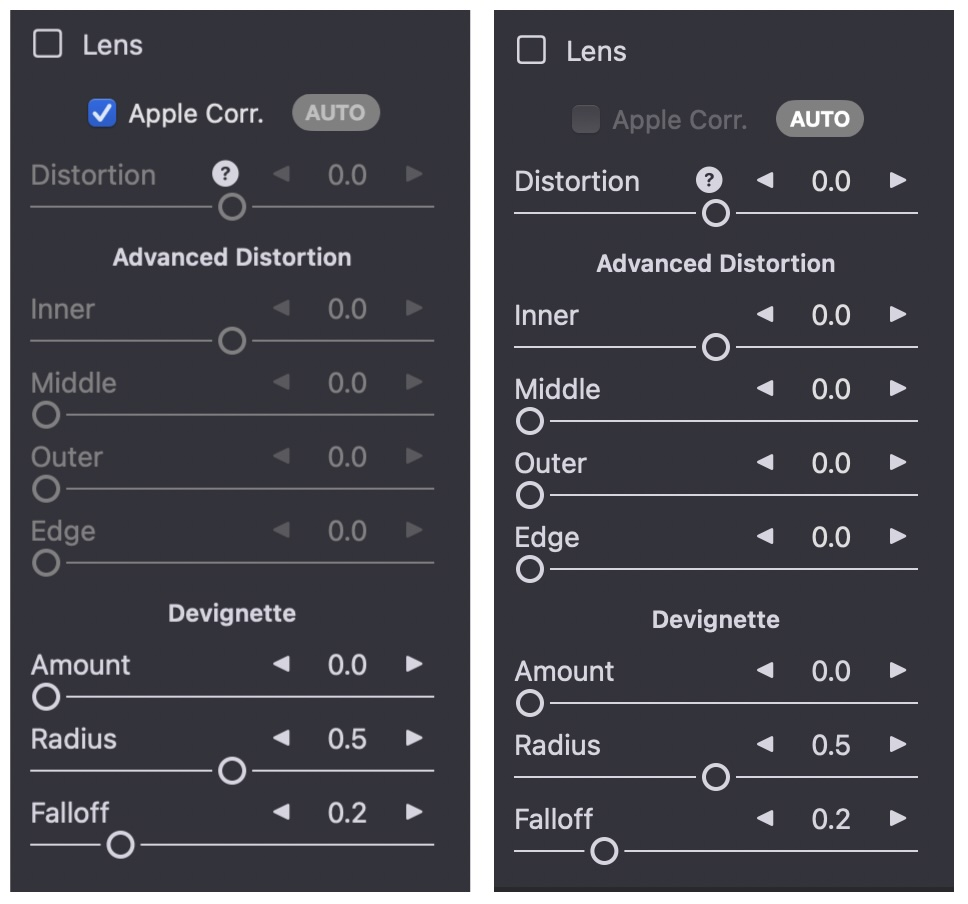
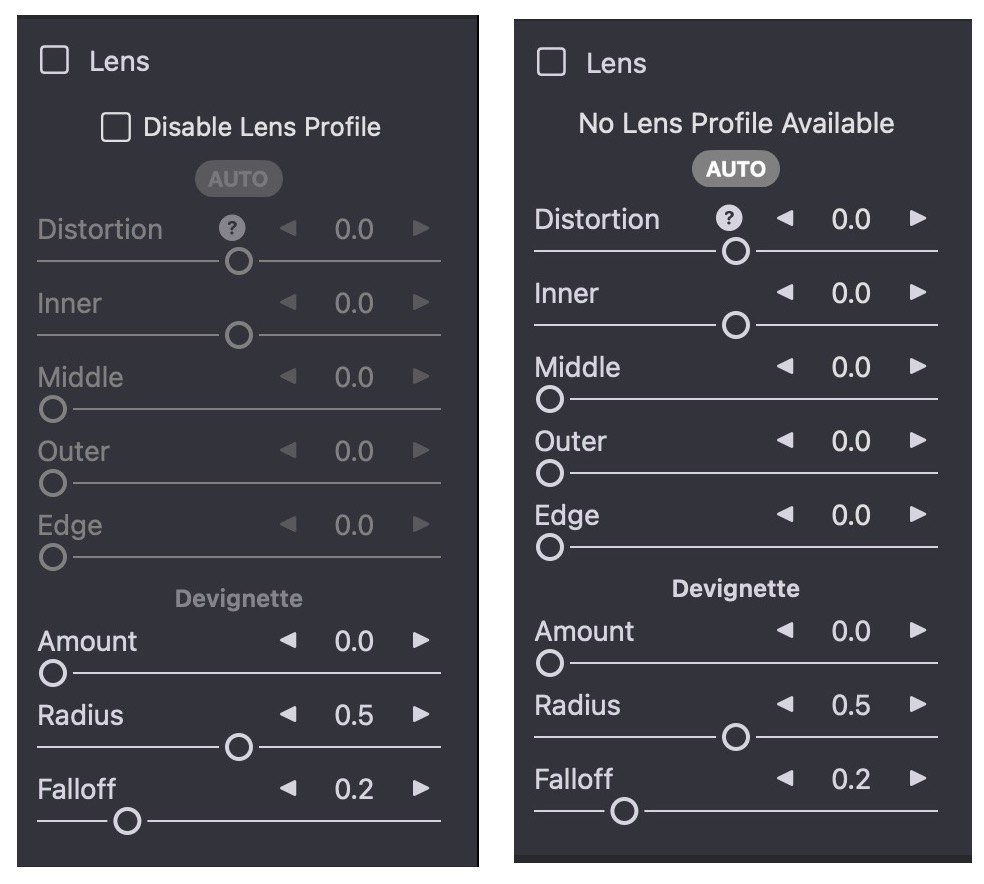
August 2025 - cameras + Nitro user manual for 2025.6

diff --git a/nitro/user-manual/index.html b/nitro/user-manual/index.html
@@ -2093,15 +2093,17 @@ You can reduce this effect with the purple (or green) intensity slider. The rang
 ### <a name= Lens-Correction></a>Lens Correction
 [Back to Editing](#The-Editing-Panel)
 
-Nitro includes two types of lens correction to handle artifacts in lenses such as distortion and shading (also called vignetting). There are two types of lens correction in the app: automatic and manual. The automatic lens correction is provided by Apple's RAW decoder, but is only available for some camera and lens combinations. Apple's system works by reading lens metadata written into the image file. In general, they can correct newer cameras and lenses, rather than older ones. When Apple's decoder can correct a lens, Nitro defaults to turning that correction on. You can add further devignetting to Apple's correction, though this is not usually necessary. When the decoder cannot correct a lens automatically, the full suite of manual tools is enabled.
+Nitro includes two types of lens correction to handle artifacts in lenses such as distortion and shading (also called vignetting). There are two types of lens correction in the app: automatic and manual. The automatic lens correction is provided by Apple's RAW decoder, but is only available for some camera and lens combinations. Apple's system works by reading lens metadata written into the image file (called a Lens Profile). In general, they can correct newer cameras and lenses, rather than older ones. When Apple's decoder can correct a lens, Nitro defaults to using that correction. You can add further devignetting to Apple's correction, though this is not usually necessary. When the decoder cannot correct a lens automatically, the full suite of manual tools is enabled. If you want to turn off Apple's correction, then press the "Disable Lens Profile" button, which will enable the distortion sliders. They will also be enabled when an image does not have a lens profile. In that case, Nitro will display "No Lens Profile Available".
 
-<p align=left><img src="images/lens.jpg" height="452"/></p>
+<p align=left><img src="images/lens.jpg" height="442"/></p>
 
 The manual correction is better described as "semi-automatic." The best way to correct a lens is to take a number of pictures of a grid with that camera and lens combination at a range of aperture values and focal lengths. Then it is straightforward to correct the distortion and shading. The lens correction is semi-automatic because Nitro will learn how to correct the lens automatically using your manual corrections. In short order, Nitro can correct the lens on its own. The AUTO button at the top can be used to correct the lens automatically once there is sufficient information in Nitro's lens correction database. There are also preferences in the app that controls whether this semi-automatic correction engages without your having to click the Auto Button. That is described in more detail in the Settings section.
 
 To learn more about how to correct a lens with Nitro and to build up its correction database, please watch this video (it covers the RAW Power app, but the technique is identical):
 
 [Lens Correction Video](https://www.youtube.com/watch?v=dRMYv6AbXPk)
+
+Lens Correction support for Compressed Fujifilm and Nikon HE/HE* images is a relatively recent addition to Nitro. If you edited images in previous releases using manual lens correction, and they now can get Apple's lens correction, you will see a Update Lens Correction button in the interface. Follow the steps listed. You can also select multiple images and use the "Update Lens Correction" batch command.
 
 ### <a name= Channel-Mixer></a>Channel Mixer
 [Back to Editing](#The-Editing-Panel)
@@ -2699,7 +2701,7 @@ To alleviate this increasingly severe problem, both RAW Power and Nitro include 
 * GoPro RAW files
 * High resolution modes for Olympus and other camera companies
 
-One missing aspect to this support, however, is lens correction. Images that are processed through Enhanced RAW Support do not receive automatic lens correction through Apple’s decoder. Instead, you will need to use the manual Lens Correction Adjustment, which is [described here](#Lens-Correction). The best part about Enhanced RAW Support is that it is transparent to you. Images simply work.
+Some images that are processed through Enhanced RAW Support do not receive automatic lens correction, but many do. Fujifilm Compressed RAW, Nikon HE/HE* and others get lens correction. If your image does not, you will need to use the manual Lens Correction Adjustment, which is [described here](#Lens-Correction). The best part about Enhanced RAW Support is that it is transparent to you. Images simply work.
 
 RAW images that are not supported by Apple will appear blank in Photos. However, once you edit them in Nitro, then Nitro will create a full-size JPEG (or HEIF) and store that in the Photo Library. After that, you can view the image in Photos. However, if you revert to original (either in Nitro or Photos), the image will be blank again in Photos.
  
@@ -3406,11 +3408,12 @@ aberration near edges / high contrast areas. If you have red or cyan aberration,
 <p>You can reduce this effect with the purple (or green) intensity slider. The range of purple or green hue that is affected can be controlled with the range sliders. Take care with the range slider as it can affect other parts of the image with nearby hues.</p>
 <h3><a name= Lens-Correction></a>Lens Correction</h3>
 <p><a href="#The-Editing-Panel">Back to Editing</a></p>
-<p>Nitro includes two types of lens correction to handle artifacts in lenses such as distortion and shading (also called vignetting). There are two types of lens correction in the app: automatic and manual. The automatic lens correction is provided by Apple's RAW decoder, but is only available for some camera and lens combinations. Apple's system works by reading lens metadata written into the image file. In general, they can correct newer cameras and lenses, rather than older ones. When Apple's decoder can correct a lens, Nitro defaults to turning that correction on. You can add further devignetting to Apple's correction, though this is not usually necessary. When the decoder cannot correct a lens automatically, the full suite of manual tools is enabled.</p>
-<p align=left><img src="images/lens.jpg" height="452"/></p>
+<p>Nitro includes two types of lens correction to handle artifacts in lenses such as distortion and shading (also called vignetting). There are two types of lens correction in the app: automatic and manual. The automatic lens correction is provided by Apple's RAW decoder, but is only available for some camera and lens combinations. Apple's system works by reading lens metadata written into the image file (called a Lens Profile). In general, they can correct newer cameras and lenses, rather than older ones. When Apple's decoder can correct a lens, Nitro defaults to using that correction. You can add further devignetting to Apple's correction, though this is not usually necessary. When the decoder cannot correct a lens automatically, the full suite of manual tools is enabled. If you want to turn off Apple's correction, then press the &quot;Disable Lens Profile&quot; button, which will enable the distortion sliders. They will also be enabled when an image does not have a lens profile. In that case, Nitro will display &quot;No Lens Profile Available&quot;.</p>
+<p align=left><img src="images/lens.jpg" height="442"/></p>
 <p>The manual correction is better described as &quot;semi-automatic.&quot; The best way to correct a lens is to take a number of pictures of a grid with that camera and lens combination at a range of aperture values and focal lengths. Then it is straightforward to correct the distortion and shading. The lens correction is semi-automatic because Nitro will learn how to correct the lens automatically using your manual corrections. In short order, Nitro can correct the lens on its own. The AUTO button at the top can be used to correct the lens automatically once there is sufficient information in Nitro's lens correction database. There are also preferences in the app that controls whether this semi-automatic correction engages without your having to click the Auto Button. That is described in more detail in the Settings section.</p>
 <p>To learn more about how to correct a lens with Nitro and to build up its correction database, please watch this video (it covers the RAW Power app, but the technique is identical):</p>
 <p><a href="https://www.youtube.com/watch?v=dRMYv6AbXPk">Lens Correction Video</a></p>
+<p>Lens Correction support for Compressed Fujifilm and Nikon HE/HE* images is a relatively recent addition to Nitro. If you edited images in previous releases using manual lens correction, and they now can get Apple's lens correction, you will see a Update Lens Correction button in the interface. Follow the steps listed. You can also select multiple images and use the &quot;Update Lens Correction&quot; batch command.</p>
 <h3><a name= Channel-Mixer></a>Channel Mixer</h3>
 <p><a href="#The-Editing-Panel">Back to Editing</a></p>
 <p>A channel mixer is a very powerful tool for tinting images or completely changing the look of your image. You can even swap channels (exchanging blue for red, for example).</p>
@@ -3835,7 +3838,7 @@ There are preferences to control this behavior, which are discussed in more deta
 <li>GoPro RAW files</li>
 <li>High resolution modes for Olympus and other camera companies</li>
 </ul>
-<p>One missing aspect to this support, however, is lens correction. Images that are processed through Enhanced RAW Support do not receive automatic lens correction through Apple’s decoder. Instead, you will need to use the manual Lens Correction Adjustment, which is <a href="#Lens-Correction">described here</a>. The best part about Enhanced RAW Support is that it is transparent to you. Images simply work.</p>
+<p>Some images that are processed through Enhanced RAW Support do not receive automatic lens correction, but many do. Fujifilm Compressed RAW, Nikon HE/HE* and others get lens correction. If your image does not, you will need to use the manual Lens Correction Adjustment, which is <a href="#Lens-Correction">described here</a>. The best part about Enhanced RAW Support is that it is transparent to you. Images simply work.</p>
 <p>RAW images that are not supported by Apple will appear blank in Photos. However, once you edit them in Nitro, then Nitro will create a full-size JPEG (or HEIF) and store that in the Photo Library. After that, you can view the image in Photos. However, if you revert to original (either in Nitro or Photos), the image will be blank again in Photos.</p>
 <p>When using the Nitro Photo Extension, you can still benefit from Enhanced RAW Support, though the image will look blank in Photos. However, when you open it in the Photo Extension, the image will be decoded and will be editable. Like the Nitro standalone app, when saving the edits, the edited image will be visible in Photos.</p>
 <p>The camera support list is maintained on the website, and it varies across operating system versions. The latest version can be <a href="https://www.gentlemencoders.com/extended-raw/index.html">found here</a>.</p>

diff --git a/extended-raw/iOS16-Ventura/index.html b/extended-raw/iOS16-Ventura/index.html
@@ -45,7 +45,7 @@ tr:nth-child(even) {background-color: #f2f2f2;}
         <h2>RAW formats supported on iOS 16, iPadOS 16, and macOS Ventura</h2>
         <h4>Support for most RAW camera formats comes directly from iOS and macOS. However, many cameras and RAW formats are not supported by Apple. To address this on iOS 14, Big Sur, and later, i have added support for many cameras, including GoPro, Fujifilm Compressed RAWs and Nikon HE/HE*. With extended RAW support, you get full access to the RAW editing features. However, there is no automatic lens correction. Use the Lens Correction adjustment to correct lens artifacts.</h4>
         <h4>Note: when using extended support, special modes like 16x9 and Sports Modes are not supported in RAW Power, but they are supported in Nitro.</h4>
-		<h4>List updated June 2, 2025</h4>
+		<h4>List updated August 20, 2025</h4>
 		<h4>If you do not see thumbnails for your images, then you can tell the app to create thumbnails for you. If you have questions, please contact <a href=mailto:support@gentlemencoders.com>support@gentlemencoders.com</a></h4>
         <div class="entry-content">
             <style>
@@ -60,7 +60,7 @@ tr:nth-child(even) {background-color: #f2f2f2;}
 
 <div style="max-width:900px;">
 <h3 class="cameraMake">DNG</h3>
-<b><i>A note about DNG - Nitro and RAW Power already support most DNG files, so if your camera natively shoots in DNG, it will probably work right away. If it does not, please let me know: <a href=mailto:support@gentlemencoders.com>support@gentlemencoders.com</a></i></b><br><br>
+<b><i>A note about DNG - Nitro and RAW Power already support most DNG files (including iPhones), so if your camera natively shoots in DNG, it will probably work right away. If it does not, please let me know: <a href=mailto:support@gentlemencoders.com>support@gentlemencoders.com</a></i></b><br><br>
 <h3 class="cameraMake">Canon</h3>
 
 <table>
@@ -272,6 +272,7 @@ tr:nth-child(even) {background-color: #f2f2f2;}
 <tr><td class="model">X-E2S</td><td class="note"></td></tr>
 <tr><td class="model">X-E3</td><td class="note">iOS 14+ / macOS 11+: Extended Support for Compressed RAW</td></tr>
 <tr><td class="model">X-E4</td><td class="note">iOS 14+ / macOS 11+: Extended Support for Compressed RAW</td></tr>
+<tr><td class="model">X-E5</td><td class="note">iOS 14+ / macOS 11+: Extended Support</td></tr>
 <tr><td class="model">X-H1</td><td class="note">iOS 14+ / macOS 11+: Extended Support for Compressed RAW</td></tr>
 <tr><td class="model">X-H2</td><td class="note">iOS 16+ / macOS 13+: Extended Support for Compressed RAW</td></tr>
 <tr><td class="model">X-H2S</td><td class="note">iOS 14+ / macOS 11+: Extended Support for Compressed RAW</td></tr>
@@ -403,6 +404,7 @@ tr:nth-child(even) {background-color: #f2f2f2;}
 <tr><td class="model">D-Lux 5</td><td class="note"></td></tr>
 <tr><td class="model">D-Lux 6</td><td class="note"></td></tr>
 <tr><td class="model">D-Lux 7</td><td class="note"></td></tr>
+<tr><td class="model">D-Lux 8</td><td class="note"></td></tr>
 <tr><td class="model">DIGILUX 2</td><td class="note"></td></tr>
 <tr><td class="model">DIGILUX 3</td><td class="note"></td></tr>
 <tr><td class="model">M</td><td class="note"></td></tr>
@@ -534,6 +536,8 @@ tr:nth-child(even) {background-color: #f2f2f2;}
 <tr><td class="model">Z 30</td><td class="note">iOS 14+ / macOS 11+: Extended Support</td></tr>
 <tr><td class="model">Z 5</td><td class="note"></td></tr>
 <tr><td class="model">Z 50</td><td class="note"></td></tr>
+<tr><td class="model">Z 5 II</td><td class="note">iOS 16+ / macOS 13+: Extended Support</td></tr>
+<tr><td class="model">Z 50 II</td><td class="note">iOS 16+ / macOS 13+: Extended Support</td></tr>
 <tr><td class="model">Z 6</td><td class="note"></td></tr>
 <tr><td class="model">Z 6II</td><td class="note"></td></tr>
 <tr><td class="model">Z 6 III</td><td class="note">iOS 16+ / macOS 13+: Extended Support</td></tr>
@@ -572,7 +576,9 @@ tr:nth-child(even) {background-color: #f2f2f2;}
 <tr><td class="model">EVOLT E-520</td><td class="note"></td></tr>
 <tr><td class="model">OM-1</td><td class="note"></td></tr>
 <tr><td class="model">OM-1 Mark II</td><td class="note">iOS 16+ / macOS 13+: Extended Support</td></tr>
-<tr><td class="model">OM-5</td><td class="note">iOS 14+ / macOS 11+: Extended Support</td></tr>
+<tr><td class="model">OM-3</td><td class="note">iOS 16+ / macOS 13+: Extended Support</td></tr>
+<tr><td class="model">OM-5</td><td class="note">iOS 16+ / macOS 13+: Extended Support</td></tr>
+<tr><td class="model">OM-5 II</td><td class="note">iOS 16+ / macOS 13+: Added Support</td></tr>
 <tr><td class="model">OM-D E-M1</td><td class="note"></td></tr>
 <tr><td class="model">OM-D E-M1 Mark II</td><td class="note"></td></tr>
 <tr><td class="model">OM-D E-M1 Mark III</td><td class="note"></td></tr>
@@ -927,6 +933,7 @@ tr:nth-child(even) {background-color: #f2f2f2;}
 <tr><td class="model">DSC-RX100 VII</td><td class="note"></td></tr>
 <tr><td class="model">DSC-RX1R</td><td class="note"></td></tr>
 <tr><td class="model">DSC-RX1R II</td><td class="note"></td></tr>
+<tr><td class="model">DSC-RX1R III</td><td class="note">iOS 14+ / macOS 11+: Added Support</td></tr>
 <tr><td class="model">RX100 V</td><td class="note"></td></tr>
 <tr><td class="model">DSC-R1</td><td class="note"></td></tr>
 <tr><td class="model">DSC-RX0</td><td class="note"></td></tr>

diff --git a/extended-raw/iOS17-Sonoma/index.html b/extended-raw/iOS17-Sonoma/index.html
@@ -45,7 +45,7 @@ tr:nth-child(even) {background-color: #f2f2f2;}
         <h2>RAW formats supported on iOS 17, iPadOS 17, and macOS Sonoma</h2>
         <h4>Support for most RAW camera formats comes directly from iOS and macOS. However, many cameras and RAW formats are not supported by Apple. To address this on iOS 14, Big Sur, and later, I have added support for many cameras, including GoPro, Fujifilm Compressed RAWs and Nikon HE/HE*. With extended RAW support, you get full access to the RAW editing features. However, there is no automatic lens correction. Use the Lens Correction adjustment to correct lens artifacts.</h4>
         <h4>Note: when using extended support, special modes like 16x9 and Sports Modes are not supported in RAW Power, but they are supported in Nitro.</h4>
-		<h4>List updated June 2, 2025</h4>
+		<h4>List updated August 20, 2025</h4>
 		<h4>If you do not see thumbnails for your images, then you can tell the app to create thumbnails for you. If you have questions, please contact <a href=mailto:support@gentlemencoders.com>support@gentlemencoders.com</a></h4>
         <div class="entry-content">
             <style>
@@ -61,7 +61,7 @@ tr:nth-child(even) {background-color: #f2f2f2;}
 
 <div style="max-width:900px;">
 <h3 class="cameraMake">DNG</h3>
-<b><i>A note about DNG - Nitro and RAW Power already support most DNG files, so if your camera natively shoots in DNG, it will probably work right away. If it does not, please let me know: <a href=mailto:support@gentlemencoders.com>support@gentlemencoders.com</a></i></b><br><br>
+<b><i>A note about DNG - Nitro and RAW Power already support most DNG files (including iPhones), so if your camera natively shoots in DNG, it will probably work right away. If it does not, please let me know: <a href=mailto:support@gentlemencoders.com>support@gentlemencoders.com</a></i></b><br><br>
 <h3 class="cameraMake">Canon</h3>
 
 <table>
@@ -274,6 +274,7 @@ tr:nth-child(even) {background-color: #f2f2f2;}
 <tr><td class="model">X-E2S</td><td class="note"></td></tr>
 <tr><td class="model">X-E3</td><td class="note">iOS 14+ / macOS 11+: Added Support for Compressed RAW</td></tr>
 <tr><td class="model">X-E4</td><td class="note">iOS 14+ / macOS 11+: Added Support for Compressed RAW</td></tr>
+<tr><td class="model">X-E5</td><td class="note">iOS 14+ / macOS 11+: Extended Support</td></tr>
 <tr><td class="model">X-H1</td><td class="note">iOS 14+ / macOS 11+: Added Support for Compressed RAW</td></tr>
 <tr><td class="model">X-H2</td><td class="note">iOS 16+ / macOS 13+: Added Support for Compressed RAW</td></tr>
 <tr><td class="model">X-H2S</td><td class="note">iOS 14+ / macOS 11+: Added Support for Compressed RAW</td></tr>
@@ -405,6 +406,7 @@ tr:nth-child(even) {background-color: #f2f2f2;}
 <tr><td class="model">D-Lux 5</td><td class="note"></td></tr>
 <tr><td class="model">D-Lux 6</td><td class="note"></td></tr>
 <tr><td class="model">D-Lux 7</td><td class="note"></td></tr>
+<tr><td class="model">D-Lux 8</td><td class="note"></td></tr>
 <tr><td class="model">DIGILUX 2</td><td class="note"></td></tr>
 <tr><td class="model">DIGILUX 3</td><td class="note"></td></tr>
 <tr><td class="model">M</td><td class="note"></td></tr>
@@ -537,6 +539,8 @@ tr:nth-child(even) {background-color: #f2f2f2;}
 <tr><td class="model">Z 30</td><td class="note">iOS 14+ / macOS 11+: Added Support</td></tr>
 <tr><td class="model">Z 5</td><td class="note"></td></tr>
 <tr><td class="model">Z 50</td><td class="note"></td></tr>
+<tr><td class="model">Z 5 II</td><td class="note">iOS 16+ / macOS 13+: Added Support for HE and HE**</td></tr>
+<tr><td class="model">Z 50 II</td><td class="note">iOS 16+ / macOS 13+: Added Support for HE and HE*</td></tr>
 <tr><td class="model">Z 6</td><td class="note"></td></tr>
 <tr><td class="model">Z 6II</td><td class="note"></td></tr>
 <tr><td class="model">Z 6 III</td><td class="note">iOS 16+ / macOS 13+: Extended Support</td></tr>
@@ -575,7 +579,9 @@ tr:nth-child(even) {background-color: #f2f2f2;}
 <tr><td class="model">EVOLT E-520</td><td class="note"></td></tr>
 <tr><td class="model">OM-1</td><td class="note"></td></tr>
 <tr><td class="model">OM-1 Mark II</td><td class="note">iOS 16+ / macOS 13+: Added Support</td></tr>
+<tr><td class="model">OM-3</td><td class="note">iOS 16+ / macOS 13+: Extended Support</td></tr>
 <tr><td class="model">OM-5</td><td class="note">iOS 14+ / macOS 11+: Added Support</td></tr>
+<tr><td class="model">OM-5 II</td><td class="note">iOS 16+ / macOS 13+: Added Support</td></tr>
 <tr><td class="model">OM-D E-M1</td><td class="note"></td></tr>
 <tr><td class="model">OM-D E-M1 Mark II</td><td class="note"></td></tr>
 <tr><td class="model">OM-D E-M1 Mark III</td><td class="note"></td></tr>
@@ -941,6 +947,7 @@ tr:nth-child(even) {background-color: #f2f2f2;}
 <tr><td class="model">DSC-RX100 VII</td><td class="note"></td></tr>
 <tr><td class="model">DSC-RX1R</td><td class="note"></td></tr>
 <tr><td class="model">DSC-RX1R II</td><td class="note"></td></tr>
+<tr><td class="model">DSC-RX1R III</td><td class="note">iOS 14+ / macOS 11+: Added Support</td></tr>
 <tr><td class="model">RX100 V</td><td class="note"></td></tr>
 <tr><td class="model">DSC-R1</td><td class="note"></td></tr>
 <tr><td class="model">DSC-RX0</td><td class="note"></td></tr>

diff --git a/extended-raw/index.html b/extended-raw/index.html
@@ -45,7 +45,7 @@ tr:nth-child(even) {background-color: #f2f2f2;}
         <h2>RAW formats supported on iOS 18, iPadOS 18, and macOS Sequoia</h2>
         <h4>Support for most RAW camera formats comes directly from iOS and macOS. However, many cameras and RAW formats are not supported by Apple. To address this on iOS 14, Big Sur, and later, I have added support for many cameras, including GoPro, Fujifilm Compressed RAWs and Nikon HE/HE*. With extended RAW support, you get full access to the RAW editing features. However, there is no automatic lens correction. Use the Lens Correction adjustment to correct lens artifacts.</h4>
         <h4>Note: when using extended support, special modes like 16x9 and Sports Modes are not supported in RAW Power, but they are supported in Nitro.</h4>
-		<h4>List updated June 11, 2025</h4>
+		<h4>List updated August 20, 2025</h4>
 		<h4>If you do not see thumbnails for your images, then you can tell the app to create thumbnails for you. If you have questions, please contact <a href=mailto:support@gentlemencoders.com>support@gentlemencoders.com</a></h4>
         <div class="entry-content">
             <style>
@@ -62,7 +62,7 @@ tr:nth-child(even) {background-color: #f2f2f2;}
 
 <div style="max-width:900px;">
 <h3 class="cameraMake">DNG</h3>
-<b><i>A note about DNG - Nitro and RAW Power already support most DNG files, so if your camera natively shoots in DNG, it will probably work right away. If it does not, please let me know: <a href=mailto:support@gentlemencoders.com>support@gentlemencoders.com</a></i></b><br><br>
+<b><i>A note about DNG - Nitro and RAW Power already support most DNG files (including iPhones), so if your camera natively shoots in DNG, it will probably work right away. If it does not, please let me know: <a href=mailto:support@gentlemencoders.com>support@gentlemencoders.com</a></i></b><br><br>
 <h3 class="cameraMake">Canon</h3>
 
 <table>
@@ -275,6 +275,7 @@ tr:nth-child(even) {background-color: #f2f2f2;}
 <tr><td class="model">X-E2S</td><td class="note"></td></tr>
 <tr><td class="model">X-E3</td><td class="note">iOS 14+ / macOS 11+: Added Support for Compressed RAW</td></tr>
 <tr><td class="model">X-E4</td><td class="note">iOS 14+ / macOS 11+: Added Support for Compressed RAW</td></tr>
+<tr><td class="model">X-E5</td><td class="note">iOS 14+ / macOS 11+: Extended Support</td></tr>
 <tr><td class="model">X-H1</td><td class="note">iOS 14+ / macOS 11+: Added Support for Compressed RAW</td></tr>
 <tr><td class="model">X-H2</td><td class="note">iOS 16+ / macOS 13+: Added Support for Compressed RAW</td></tr>
 <tr><td class="model">X-H2S</td><td class="note">iOS 14+ / macOS 11+: Added Support for Compressed RAW</td></tr>
@@ -407,6 +408,7 @@ tr:nth-child(even) {background-color: #f2f2f2;}
 <tr><td class="model">D-Lux 5</td><td class="note"></td></tr>
 <tr><td class="model">D-Lux 6</td><td class="note"></td></tr>
 <tr><td class="model">D-Lux 7</td><td class="note"></td></tr>
+<tr><td class="model">D-Lux 8</td><td class="note"></td></tr>
 <tr><td class="model">DIGILUX 2</td><td class="note"></td></tr>
 <tr><td class="model">DIGILUX 3</td><td class="note"></td></tr>
 <tr><td class="model">M</td><td class="note"></td></tr>
@@ -539,7 +541,7 @@ tr:nth-child(even) {background-color: #f2f2f2;}
 <tr><td class="model">E8800</td><td class="note"></td></tr>
 <tr><td class="model">Z 30</td><td class="note"></td></tr>
 <tr><td class="model">Z 5</td><td class="note"></td></tr>
-<tr><td class="model">Z 5 II</td><td class="note">Does not support HE/HE* compression</td></tr>
+<tr><td class="model">Z 5 II</td><td class="note">iOS 16+ / macOS 13+: Added Support for HE and HE**</td></tr>
 <tr><td class="model">Z 50</td><td class="note"></td></tr>
 <tr><td class="model">Z 50 II</td><td class="note">iOS 16+ / macOS 13+: Added Support for HE/HE*</td></tr>
 <tr><td class="model">Z 6</td><td class="note"></td></tr>
@@ -582,6 +584,7 @@ tr:nth-child(even) {background-color: #f2f2f2;}
 <tr><td class="model">OM-1 Mark II</td><td class="note"></td></tr>
 <tr><td class="model">OM-3</td><td class="note">iOS 16+ / macOS 13+: Extended Support</td></tr>
 <tr><td class="model">OM-5</td><td class="note"></td></tr>
+<tr><td class="model">OM-5 II</td><td class="note">iOS 16+ / macOS 13+: Extended Support</td></tr>
 <tr><td class="model">OM-D E-M1</td><td class="note"></td></tr>
 <tr><td class="model">OM-D E-M1 Mark II</td><td class="note"></td></tr>
 <tr><td class="model">OM-D E-M1 Mark III</td><td class="note"></td></tr>
@@ -952,6 +955,7 @@ tr:nth-child(even) {background-color: #f2f2f2;}
 <tr><td class="model">DSC-RX100 VII</td><td class="note"></td></tr>
 <tr><td class="model">DSC-RX1R</td><td class="note"></td></tr>
 <tr><td class="model">DSC-RX1R II</td><td class="note"></td></tr>
+<tr><td class="model">DSC-RX1R III</td><td class="note">iOS 14+ / macOS 11+: Added Support</td></tr>
 <tr><td class="model">RX100 V</td><td class="note"></td></tr>
 <tr><td class="model">DSC-R1</td><td class="note"></td></tr>
 <tr><td class="model">DSC-RX0</td><td class="note"></td></tr>

diff --git a/about/index.html b/about/index.html
@@ -12,35 +12,36 @@
         <h1>About</h1>
     <div class="entry-content">
         <h3>The Company</h3>
-        <table>
+        <table style="margin:20px">
             <tbody>
                 <tr>
-                    <td>
+                    <td style="padding:10px">
                         <img src="GC-Logo-512-favicon-300x300.png" alt="" class="alignnone size-medium wp-image-3201"
                             srcset="GC-Logo-512-favicon-300x300.png 300w, GC-Logo-512-favicon-150x150.png 150w, GC-Logo-512-favicon-60x60.png 60w, GC-Logo-512-favicon-255x255.png 255w, GC-Logo-512-favicon-80x80.png 80w, GC-Logo-512-favicon-40x40.png 40w, GC-Logo-512-favicon-480x480.png 480w, GC-Logo-512-favicon-500x500.png 500w, GC-Logo-512-favicon-360x360.png 360w, GC-Logo-512-favicon-380x380.png 380w, GC-Logo-512-favicon.png 512w"
                             sizes="(max-width: 128px) 100vw, 128px" width="128" vspace="8" hspace="8" height="128"
                             align="left">
-                        <p style="margin-top:20px;">Gentlemen Coders<sup>®</sup> develops and distributes software for professional and enthusiast
+                        <p style="margin-top:10px;">Gentlemen Coders<sup>®</sup> develops and distributes software for professional and enthusiast
                             photographers. Focusing exclusively on Apple platforms, the company offers unparalleled
                             integration with Apple’s built-in services on macOS and iOS, maximizing customers’
                             investment in
                             Apple devices and services. Gentlemen Coders’ products consistently deliver high-quality
                             image
-                            processing, innovative workflows, intuitive organizational tools and high performance.</p>
+                            processing, innovative workflows, intuitive organizational tools and high performance. Gentlemen Coders also prides itself on exceptional customer support.</p>
                     </td>
                 </tr>
                 <tr>
-                    <td>
+                    <td style="padding:10px">
                         <p><img src="head-shot-300x300.jpg" alt="" class="alignnone size-medium wp-image-3968"
                                 srcset="head-shot-300x300.jpg 300w, head-shot-150x150.jpg 150w, head-shot-768x768.jpg 768w, head-shot-60x60.jpg 60w, head-shot-900x900.jpg 900w, head-shot-255x255.jpg 255w, head-shot-80x80.jpg 80w, head-shot-40x40.jpg 40w, head-shot-480x480.jpg 480w, head-shot-500x500.jpg 500w, head-shot-750x750.jpg 750w, head-shot-360x360.jpg 360w, head-shot-380x380.jpg 380w, head-shot.jpg 1600w"
                                 sizes="(max-width: 128px) 100vw, 128px" width="128" vspace="16" hspace="16" height="128"
                                 align="left"></p>
-                        <p  style="margin-top:40px">Gentlemen Coders was founded in 2016 by Nik Bhatt, an 18 year veteran of Apple. His roles in
-                            the Photo Apps group included Senior Director of Engineering and Chief Technical Officer. Among other roles, 
-                            he led the Aperture, iPhoto, RAW Camera and Core Image engineering teams, as well as the imaging team for the Mac version of
-                            Photos.<br> Mr. Bhatt holds over 55 patents in a wide range of disciplines including image
+                        <p  style="margin-top:25px">Gentlemen Coders was founded in 2016 by Nik Bhatt, an 18 year veteran of Apple. He was a member of the very small team that created TrueType in the 80s.
+                            He left Apple, working at a series of startups, before returning in the early 2000s. He then led the teams that created Soundtrack and Soundtrack Pro, before moving into Photo apps. 
+                            There he served as Senior Director of Engineering and Chief Technical Officer. 
+                            He led the Aperture, iPhoto, RAW Camera and Core Image engineering teams, as well as the imaging team for the Mac version of
+                            Photos.<br><br> Mr. Bhatt holds 59 patents in a wide range of disciplines including image
                             processing, audio processing, geotagging, wireless networking, and user interface design.
-                           <br><a href="https://www.linkedin.com/in/nikbhatt/">LinkedIn Profile</a></p>
+                           <br><br> <a href="https://www.linkedin.com/in/nikbhatt/">LinkedIn Profile</a></p>
                     </td>
                 </tr>
             </tbody>

diff --git a/extended-raw/iOS14-BigSur/index.html b/extended-raw/iOS14-BigSur/index.html
@@ -58,7 +58,7 @@ tr:nth-child(even) {background-color: #f2f2f2;}
 
 <div style="max-width:900px;">
 <h3 class="cameraMake">DNG</h3>
-<b><i>A note about DNG - RAW Power already supports most DNG files, so if your camera natively shoots in DNG, it will probably work right away with RAW Power. If it does not, please let me know: <a href=mailto:support@gentlemencoders.com>support@gentlemencoders.com</a></i></b><br><br>
+<b><i>A note about DNG - RAW Power already supports most DNG files (including iPhones), so if your camera natively shoots in DNG, it will probably work right away with RAW Power. If it does not, please let me know: <a href=mailto:support@gentlemencoders.com>support@gentlemencoders.com</a></i></b><br><br>
 <h3 class="cameraMake">Canon</h3>
 
 <table>

diff --git a/extended-raw/iOS15-Monterey/index.html b/extended-raw/iOS15-Monterey/index.html
@@ -59,7 +59,7 @@ tr:nth-child(even) {background-color: #f2f2f2;}
 
 <div style="max-width:900px;">
 <h3 class="cameraMake">DNG</h3>
-<b><i>A note about DNG - RAW Power already supports most DNG files, so if your camera natively shoots in DNG, it will probably work right away with RAW Power. If it does not, please let me know: <a href=mailto:support@gentlemencoders.com>support@gentlemencoders.com</a></i></b><br><br>
+<b><i>A note about DNG - RAW Power already supports most DNG files (including iPhones), so if your camera natively shoots in DNG, it will probably work right away with RAW Power. If it does not, please let me know: <a href=mailto:support@gentlemencoders.com>support@gentlemencoders.com</a></i></b><br><br>
 <h3 class="cameraMake">Canon</h3>
 
 <table>
